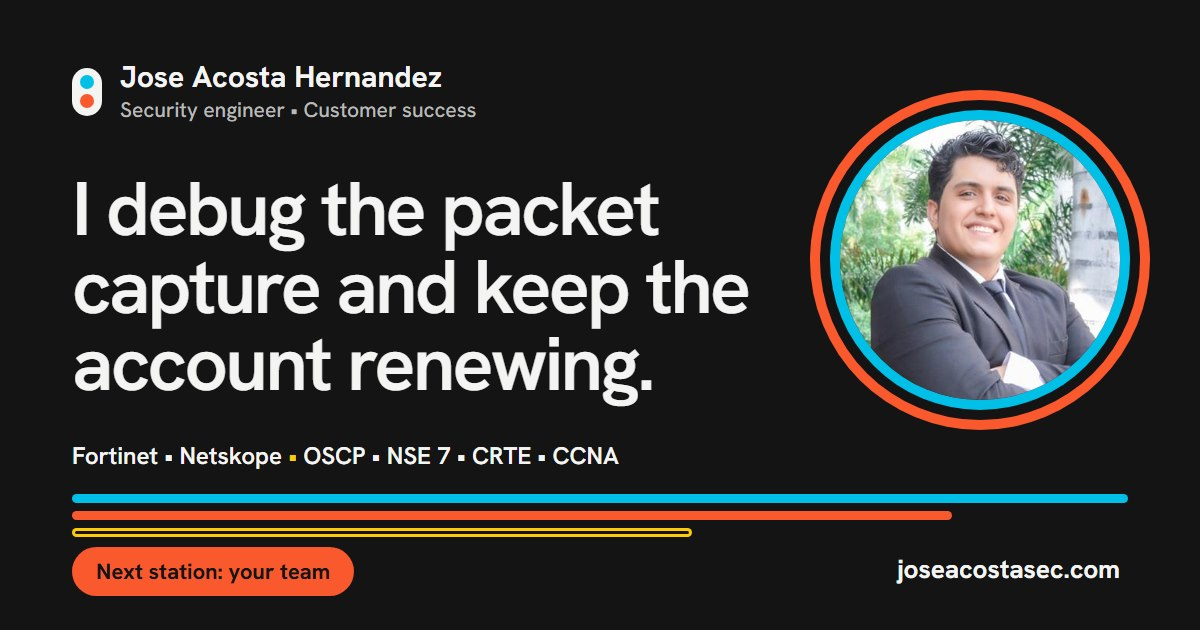
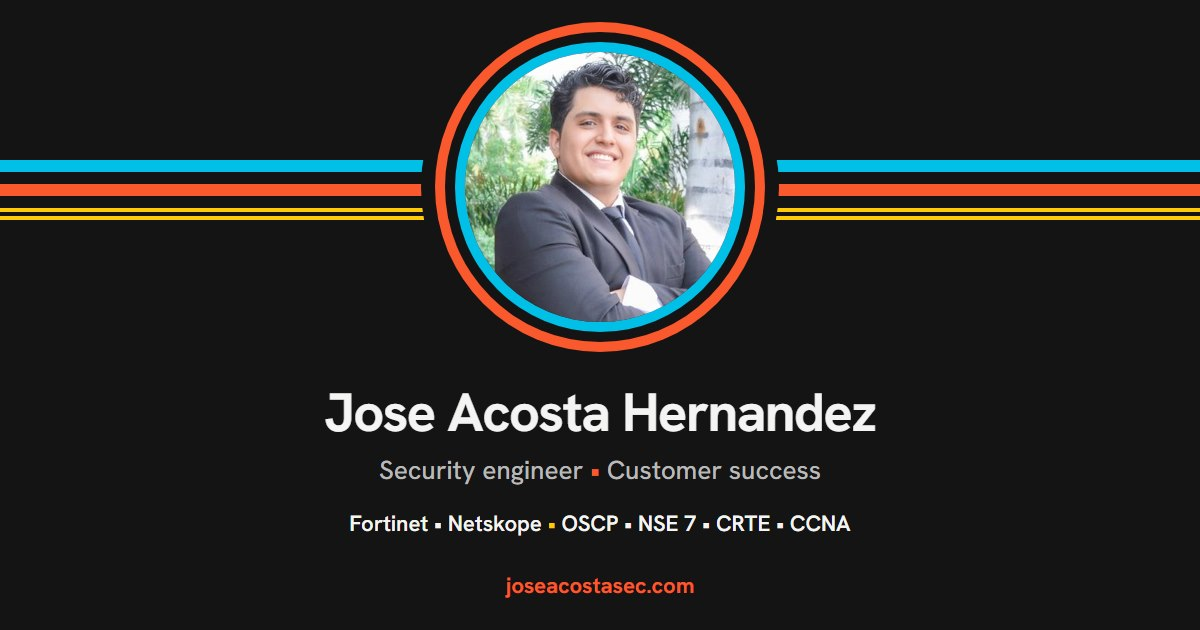
Centered link preview

diff --git a/index.html b/index.html
@@ -15,8 +15,8 @@
 <meta property="og:url" content="https://joseacostasec.com/">
 <meta property="og:title" content="Jose Acosta Hernandez · Security engineer and customer success">
 <meta property="og:description" content="Security engineer who owns the account: FortiOS root cause, OSCP, and Netskope customer success across NAM, LATAM and Brazil.">
-<meta property="og:image" content="https://joseacostasec.com/assets/og.jpg">
-<meta property="og:image:secure_url" content="https://joseacostasec.com/assets/og.jpg">
+<meta property="og:image" content="https://joseacostasec.com/assets/og.jpg?v=2">
+<meta property="og:image:secure_url" content="https://joseacostasec.com/assets/og.jpg?v=2">
 <meta property="og:image:type" content="image/jpeg">
 <meta property="og:image:width" content="1200">
 <meta property="og:image:height" content="630">
